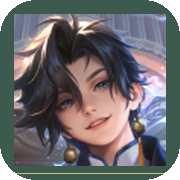
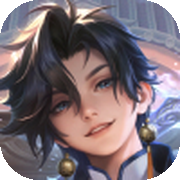
feat: 图标去绿框(纯孙权头像) + 英雄详情分享/导出PDF功能\n\n- 图标: 去掉墨绿底+金线边框,改为孙权官方头像圆角直出(全7尺寸)\n- 新增分享按钮(⤴)在详情页眉右上角,与关闭按钮并排\n- 点击分享调用 window.print(), 配套 @media print 优化:\n  · 只输出英雄详情内容(隐藏导航/工具栏/卡片网格)\n  · 墨绿页眉+白字保留,正文白底黑字\n  · 支持浏览器"另存为PDF"或iOS打印预览→分享微信\n- Chrome headless 截图+PDF 导出自测通过(亮/暗双主题)

diff --git a/index.html b/index.html
@@ -197,13 +197,19 @@
   .m-head{position:sticky;top:0;z-index:5;display:flex;flex-direction:column;gap:5px;
     padding:20px 24px 18px;background:#1E2A24;color:var(--paper);
     border-bottom:1px solid rgba(255,255,255,.10);}
+  /* 页眉右上角按钮组（关闭 + 分享） */
+  .m-head-actions{position:absolute;top:14px;right:16px;display:flex;gap:8px;z-index:6;}
+  .m-share{width:36px;height:36px;border-radius:10px;
+    font-size:17px;cursor:pointer;color:#fff;border:1px solid rgba(255,255,255,.22);background:rgba(255,255,255,.10);
+    display:flex;align-items:center;justify-content:center;transition:.16s;}
+  .m-share:hover,.m-share:active{background:rgba(255,255,255,.20);}
   .m-head h2{margin:0;font-size:23px;color:#fff;letter-spacing:.01em;display:flex;align-items:center;gap:14px;font-family:var(--font-kai);}
   .m-head h2 .ava-lg{width:54px;height:54px;border-radius:12px;box-shadow:inset 0 0 0 1px rgba(255,255,255,.5);}
   .m-head h2 .m-t{line-height:1.1;}
   .m-head .m-meta{font-size:13px;color:rgba(255,255,255,.72);margin:0;font-variant-numeric:tabular-nums;letter-spacing:.02em;}
-  .modal-close{position:absolute;top:16px;right:18px;width:36px;height:36px;border-radius:10px;
+  .modal-close{width:36px;height:36px;border-radius:10px;
     font-size:22px;cursor:pointer;color:#fff;border:1px solid rgba(255,255,255,.22);background:rgba(255,255,255,.10);
-    display:flex;align-items:center;justify-content:center;transition:.16s;z-index:6;}
+    display:flex;align-items:center;justify-content:center;transition:.16s;}
   .modal-close:hover{background:rgba(255,255,255,.20);}
   /* 正文居中易读，整页可滚动 */
   .m-body{max-width:900px;margin:0 auto;width:100%;padding:30px 32px 64px;font-size:14px;line-height:1.8;}
@@ -390,6 +396,8 @@
     .m-head h2{font-size:20px;gap:11px;}
     .m-head h2 .ava-lg{width:46px;height:46px;}
     .modal-close{width:36px;height:36px;font-size:22px;top:calc(14px + env(safe-area-inset-top));right:14px;}
+    .m-head-actions{top:calc(10px + env(safe-area-inset-top));right:12px;}
+    .m-share{width:34px;height:34px;font-size:15px;}
     .m-body{font-size:15px;line-height:1.85;padding:22px 16px calc(40px + env(safe-area-inset-bottom));max-width:none;background:var(--paper);}
     .modal-box .m-body .counter{grid-template-columns:1fr;}
     .cchip{min-height:34px;padding:4px 13px;font-size:13px;}
@@ -405,6 +413,41 @@
     .card{animation:none;opacity:1;transform:none;}
     .modal-box{animation:none;}
     html{scroll-behavior:auto;}
+  }
+  /* ===== 打印 / 导出 PDF：只输出英雄详情内容 ===== */
+  @media print{
+    *{-webkit-print-color-adjust:exact!important;print-color-adjust:exact!important;color-adjust:exact!important;}
+    body{background:#fff!important;color:#000!important;}
+    /* 隐藏所有非详情内容 */
+    .appbar,.toolbar,.hero,.hero-art,.grid,.search-wrap,.count,.foot,
+    .anchor-nav,.seg,.tiers,.modal-close,.m-share,.m-head-actions,
+    .theme-toggle,.compact-toggle{display:none!important;}
+    /* 弹窗变为正常文档流 */
+    .modal{position:static!important;display:block!important;inset:auto!important;
+      background:#fff!important;padding:0!important;overflow:visible!important;}
+    .modal-box{position:static!important;width:100%!important;height:auto!important;max-height:none!important;
+      overflow:visible!important;background:#fff!important;padding:0!important;border-radius:0!important;
+      box-shadow:none!important;border:none!important;animation:none!important;}
+    /* 页眉：墨绿底白字（打印保留） */
+    .m-head{position:static!important;background:#1E2A24!important;color:#fff!important;
+      padding:24px 32px 16px!important;border-bottom:2px solid #1E2A24!important;}
+    .m-head h2{color:#fff!important;font-size:26px!important;}
+    .m-head .m-meta{color:rgba(255,255,255,.8)!important;}
+    .m-head h2 .ava-lg{width:64px;height:64px!important;border-radius:14px!important;}
+    /* 正文：白底黑字，易读 */
+    .m-body{padding:28px 36px 48px!important;font-size:13px!important;line-height:1.85!important;
+      color:#1a1a1a!important;background:#fff!important;max-width:none!important;}
+    .m-body h4{color:#1E2A24!important;border-left-color:#1E2A24!important;font-size:15px!important;}
+    .m-body p{color:#1a1a1a!important;orphans:3;widows:3;}
+    .m-body b,.m-body strong{color:#000!important;}
+    /* 克制芯片：边框打印 */
+    .cchip{border:1px solid #ccc!important;break-inside:avoid;}
+    .tag,.tier,.vt{border:1px solid #ccc!important;}
+    /* 图片显示 */
+    img{display:inline-block!important;max-width:100%!important;height:auto!important;}
+    /* 页脚信息 */
+    .tip-box{background:#f5f5f5!important;color:#555!important;border:1px solid #ddd!important;
+      padding:12px 16px!important;border-radius:8px!important;margin-top:16px!important;}
   }
 </style>
 </head>
@@ -502,7 +545,10 @@
 <div class="modal" id="modal" role="dialog" aria-modal="true" aria-labelledby="mTitle">
   <div class="modal-box">
     <div class="m-head">
-      <button class="modal-close" id="modalClose" aria-label="关闭">×</button>
+      <div class="m-head-actions">
+        <button class="m-share" id="mShare" title="分享 / 导出 PDF">⤴</button>
+        <button class="modal-close" id="modalClose" aria-label="关闭">×</button>
+      </div>
       <h2 id="mTitle"></h2>
       <div class="m-meta" id="mMeta"></div>
     </div>
@@ -747,6 +793,7 @@
     document.body.style.overflow='';
   }
   document.getElementById('modalClose').addEventListener('click', closeModal);
+  document.getElementById('mShare').addEventListener('click', function(){ window.print(); });
   document.getElementById('modal').addEventListener('click', function(e){ if(e.target===this) closeModal(); });
   document.addEventListener('keydown', function(e){ if(e.key==='Escape') closeModal(); });
 

diff --git a/heroes-data.js b/heroes-data.js
@@ -11,7 +11,7 @@
 window.GUIDE_META = {
   season: "S44「不拘命格」",
   seasonStart: "2026-06-25",
-  version: "1.0.6",
+  version: "1.0.7",
   patch: "截至 S44 赛季末（2026-08）",
   note: "全英雄摘要版先行，详细攻略持续更新中",
   source: "综合搜狐/抖音精选/百度百科等 2026-08 公开榜单，以正式服为准",
